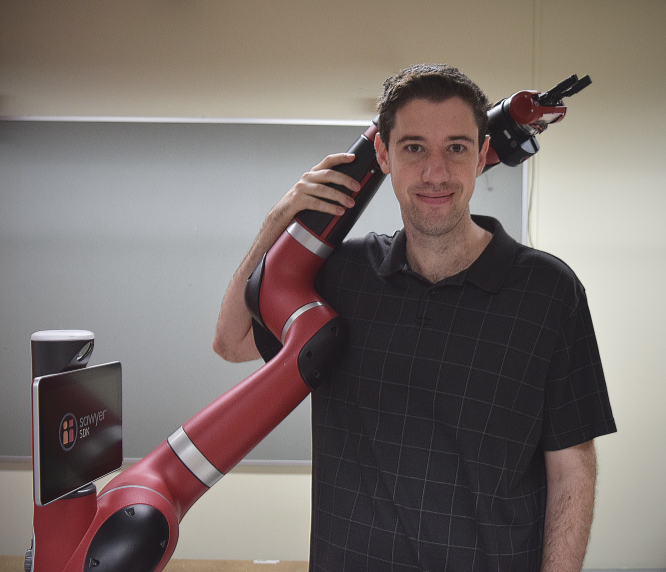
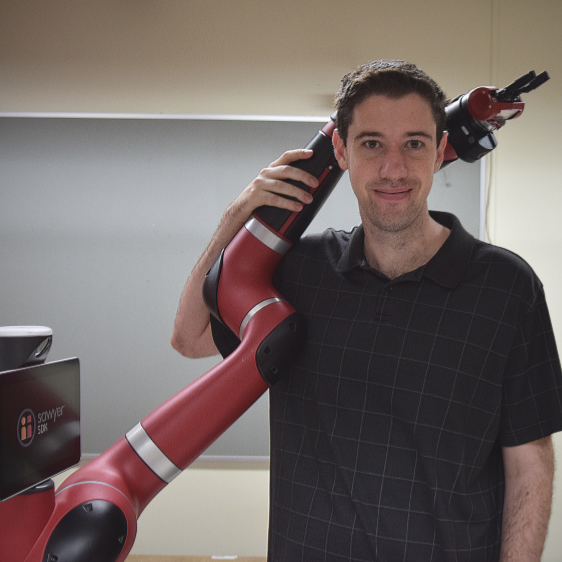
fixed image dimensions and added wisc seminar news

Changed region(s): [[0.0, 0.0907, 1.0, 1.0]]

diff --git a/about/index.html b/about/index.html
@@ -61,12 +61,13 @@
 <p>My current research is supported by a NASA University Leadership Initiative Project focused on introducing effective human-robot teaming into aviation manufacturing. Specificially, my research falls at the intersection of Learning from Demonstration (LfD), Haptics, and Shared Autonomy. More detail can be found at <a href="https://robotics.wisc.edu/">Wisconsin Robotics</a>.</p>
 <h2 id="recent-news">Recent News</h2>
 <ul style="list-style-position: outside;">
+<li><b>Mar 2021 -</b> Part of the organizing team for the inaugural <a href="https://robotics.wisc.edu/seminar-series/">Wisconsin Robotics Seminar Series</a> for Dr. SK Gupta from USC.</li>
 <li><b>Feb 2021 -</b> <a href="https://arxiv.org/abs/2102.07165">"Corrective Shared Autonomy for Addressing Task Variability"</a> was accepted for publication in IEEE Robotics and Automation Letters (RAL)</li>
 <li><b>Feb 2021 -</b> Presented a video and <a href="https://www.youtube.com/watch?v=n_r6o_xU8PQ">live Q&A</a> as part of the 2021 NASA TACP Showcase</li>
-<li><b>May 2020 -</b> Created a method, <a href="https://mhagenow01.github.io/FBFransac/">FAMrec</a>, for 3D pose recognition of arbitrary meshes as part of a computer vision class project</li>
 </ul>
 <details>
   <summary>Older News</summary><ul style="list-style-position: outside;">
+  	<li><b>May 2020 -</b> Created a method, <a href="https://mhagenow01.github.io/FBFransac/">FAMrec</a>, for 3D pose recognition of arbitrary meshes as part of a computer vision class project</li>
   	<li><b>Feb 2020 -</b>Completed Delta Intern Project - <a href="https://uwmadison.app.box.com/s/kx8v9ubme7k76bsdv0c8iz28gl7rmtbf">Problem-Based Learning Activity to Promote Adaptive Expertise</a></li>
   	<li><b>Nov 2019 -</b>Traveled to Boeing Charleston to tour facility as part of the NASA ULI Project</li>
   	<li><b>Jul 2019 -</b>Traveled to Washington DC as part of NASA University Leadership Initiative Kick-off</li>  	

diff --git a/index.html b/index.html
@@ -63,12 +63,13 @@
 <p>My current research is supported by a NASA University Leadership Initiative Project focused on introducing effective human-robot teaming into aviation manufacturing. Specificially, my research falls at the intersection of Learning from Demonstration (LfD), Haptics, and Shared Autonomy. More detail can be found at <a href="https://robotics.wisc.edu/">Wisconsin Robotics</a>.</p>
 <h2 id="recent-news">Recent News</h2>
 <ul style="list-style-position: outside;">
+<li><b>Mar 2021 -</b> Part of the organizing team for the inaugural <a href="https://robotics.wisc.edu/seminar-series/">Wisconsin Robotics Seminar Series</a> for Dr. SK Gupta from USC.</li>
 <li><b>Feb 2021 -</b> <a href="https://arxiv.org/abs/2102.07165">"Corrective Shared Autonomy for Addressing Task Variability"</a> was accepted for publication in IEEE Robotics and Automation Letters (RAL)</li>
 <li><b>Feb 2021 -</b> Presented a video and <a href="https://www.youtube.com/watch?v=n_r6o_xU8PQ">live Q&A</a> as part of the 2021 NASA TACP Showcase</li>
-<li><b>May 2020 -</b> Created a method, <a href="https://mhagenow01.github.io/FBFransac/">FAMrec</a>, for 3D pose recognition of arbitrary meshes as part of a computer vision class project</li>
 </ul>
 <details>
   <summary>Older News</summary><ul style="list-style-position: outside;">
+  	<li><b>May 2020 -</b> Created a method, <a href="https://mhagenow01.github.io/FBFransac/">FAMrec</a>, for 3D pose recognition of arbitrary meshes as part of a computer vision class project</li>
   	<li><b>Feb 2020 -</b>Completed Delta Intern Project - <a href="https://uwmadison.app.box.com/s/kx8v9ubme7k76bsdv0c8iz28gl7rmtbf">Problem-Based Learning Activity to Promote Adaptive Expertise</a></li>
   	<li><b>Nov 2019 -</b>Traveled to Boeing Charleston to tour facility as part of the NASA ULI Project</li>
   	<li><b>Jul 2019 -</b>Traveled to Washington DC as part of NASA University Leadership Initiative Kick-off</li>  	
